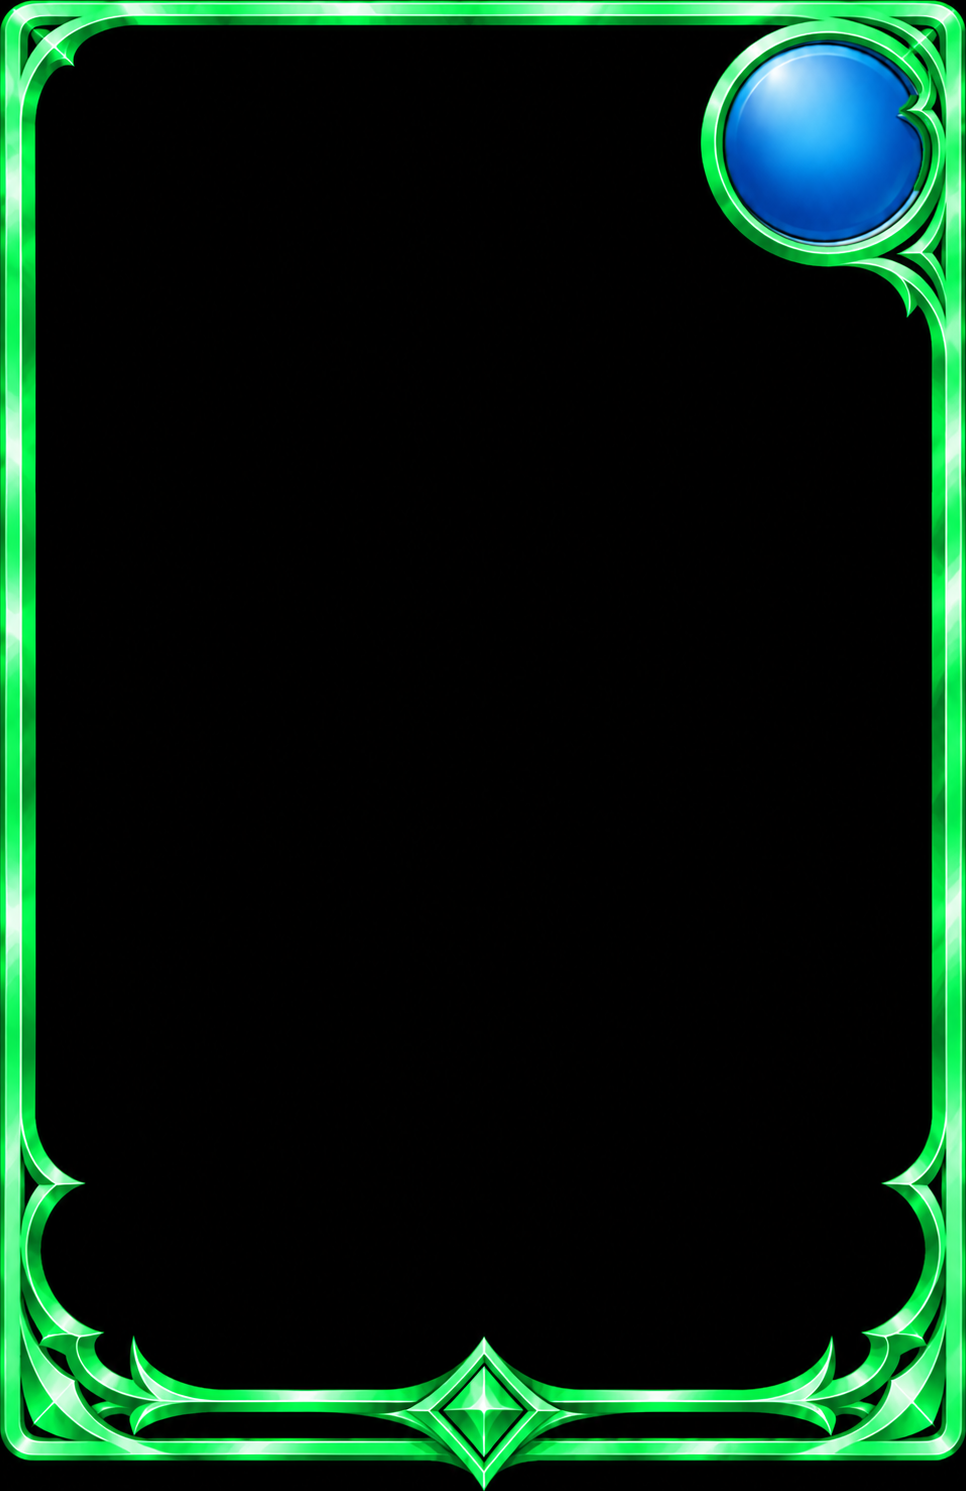
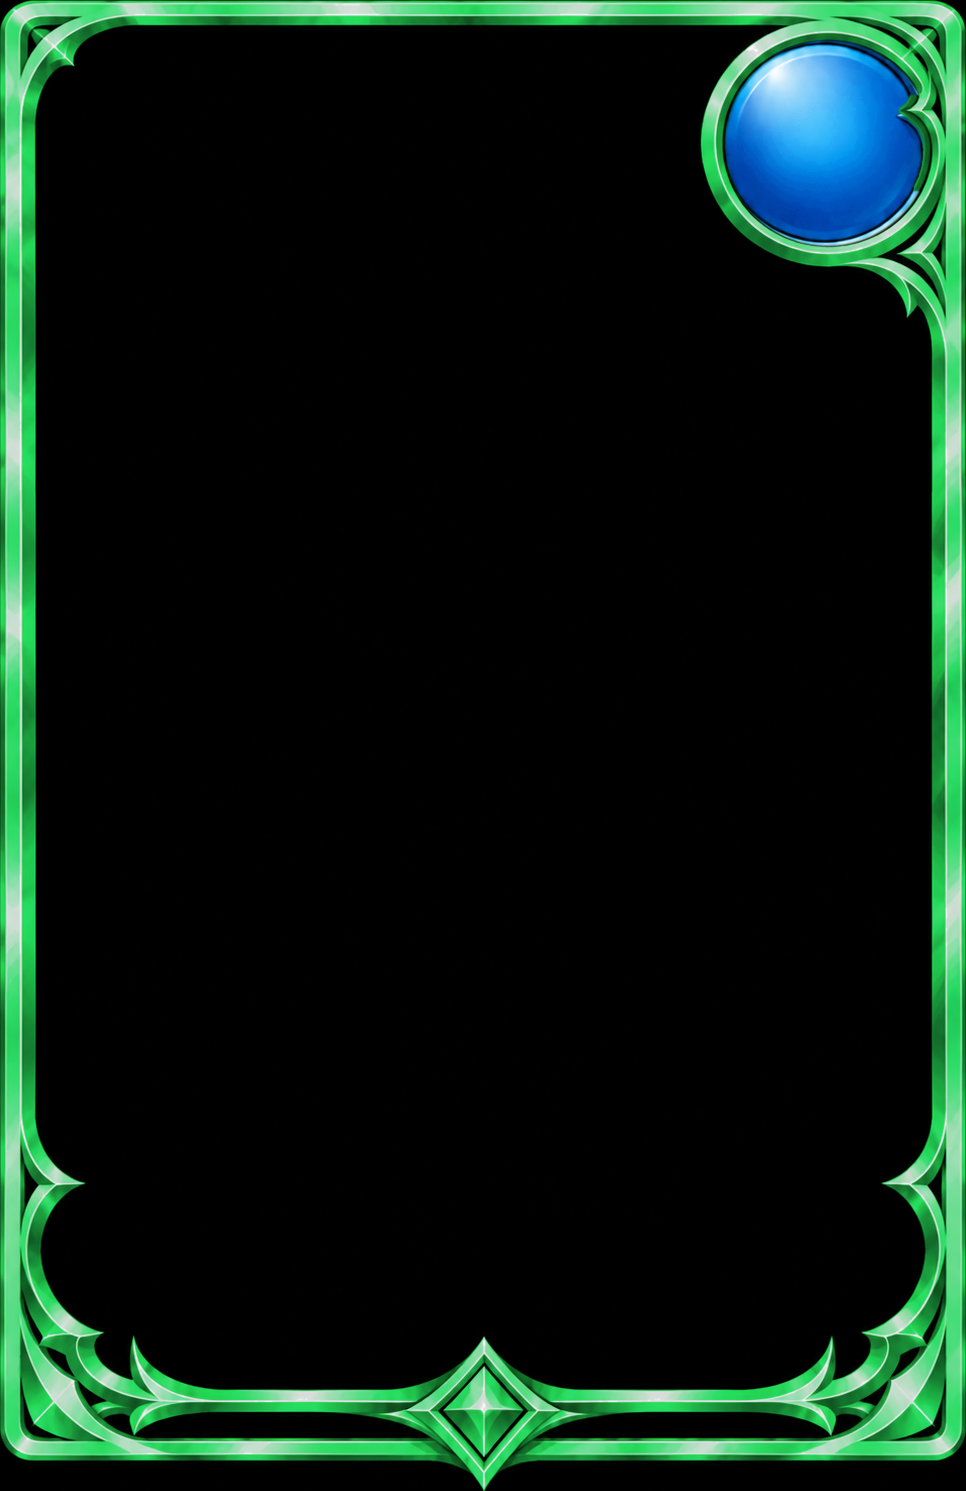
Khung buff xanh lá dịu lại cho hợp các khung khác
Claude-Session: https://claude.ai/code/session_01XgSG6Z9xW8491CKVgy52Z1

Changed region(s): [[0.0, 0.0, 1.0, 1.0], [0.7143, 0.0617, 0.7764, 0.1543]]

diff --git a/src/lib/updates.ts b/src/lib/updates.ts
@@ -875,6 +875,7 @@ export const PENDING_NOTES: string[] = [
   "Khung lá phép nhanh có mana và không mana canh khớp cùng cỡ.",
   "Lá phép chậm trên tay có khung tím mới.",
   "Lá phép siêu tốc và buff trên tay có khung xanh dương, xanh lá; bỏ icon loại phép trên tay.",
+  "Khung xanh lá của phép buff dịu lại, hợp với các khung khác.",
 ];
 
 function remarkOf(notes: string[]) {

diff --git a/TIEP-TUC.md b/TIEP-TUC.md
@@ -636,3 +636,4 @@ Chủ game trả lời (29/10), CHƯA LÀM gì, chờ "ok" và trả lời câu 
 - KHUNG HỒNG CANH KHỚP 02/11 (Sonnet low, ĐÃ LÀM, nhánh `ccr-6ec5ff6c-vl497v`, CHƯA áp `main`): `spell-frame-fast.png` = 446c645a cắt sát (1000×1531), `-nogem.png` = a10d018d cắt sát rồi co về 1000×1531. Chưa chụp thử trên tay bài.
 - KHUNG PHÉP CHẬM TÍM 02/11 (Sonnet low, ĐÃ LÀM, nhánh `ccr-6ec5ff6c-vl497v`, CHƯA áp `main`): chủ game gửi 3 ảnh tím (theo #a56cf0, đo ~#a038ec); `spell-frame-slow.png` (9982bfac) + `-nogem` (04545b96 co về cùng cỡ); card-face.tsx chọn theo `spellSpeed` fast/slow. Siêu tốc, buff chờ khung. Chưa chụp thử.
 - KHUNG PHÉP SIÊU TỐC + BUFF 03/11 (Sonnet low, ĐÃ LÀM, nhánh `ccr-6ec5ff6c-vl497v`, CHƯA áp `main`): chủ game gửi khung xanh dương (f7a62536 có mana, c84dec5a không mana) và xanh lá (viên ngọc đã bị đổi xanh lá nên Claude thay bằng viên xanh dương của khung xanh dương; 4206b83f không mana); `spell-frame-super(.-nogem).png`, `spell-frame-buff(.-nogem).png` cắt sát, không mana co về cùng cỡ; card-face.tsx chọn khung theo `spellSpeed` (fast/slow/super/buff). BỎ icon tốc độ (`.speed`) trên lá phép tay vì màu khung đã thể hiện; `DEFAULT_SPELL_HAND.speed` và Tuỳ chỉnh còn đó, không dùng. Màu chủ game chọn cho buff `#2fd072`.
+- KHUNG BUFF DỊU LẠI 03/11 (chủ game: ngọc bích quá nổi, làm mờ màu khác; Sonnet low, ĐÃ LÀM, nhánh `ccr-6ec5ff6c-vl497v`): chỉ pixel xanh lá của `spell-frame-buff(.-nogem).png` giảm bão hoà ×0,84 và độ sáng ×0,88 (viên ngọc xanh dương giữ nguyên); độ sáng cảm nhận 149 → 141, ngang khung chậm (141), nhanh (139), siêu tốc (134). Bản cũ: git 72cb4be.
